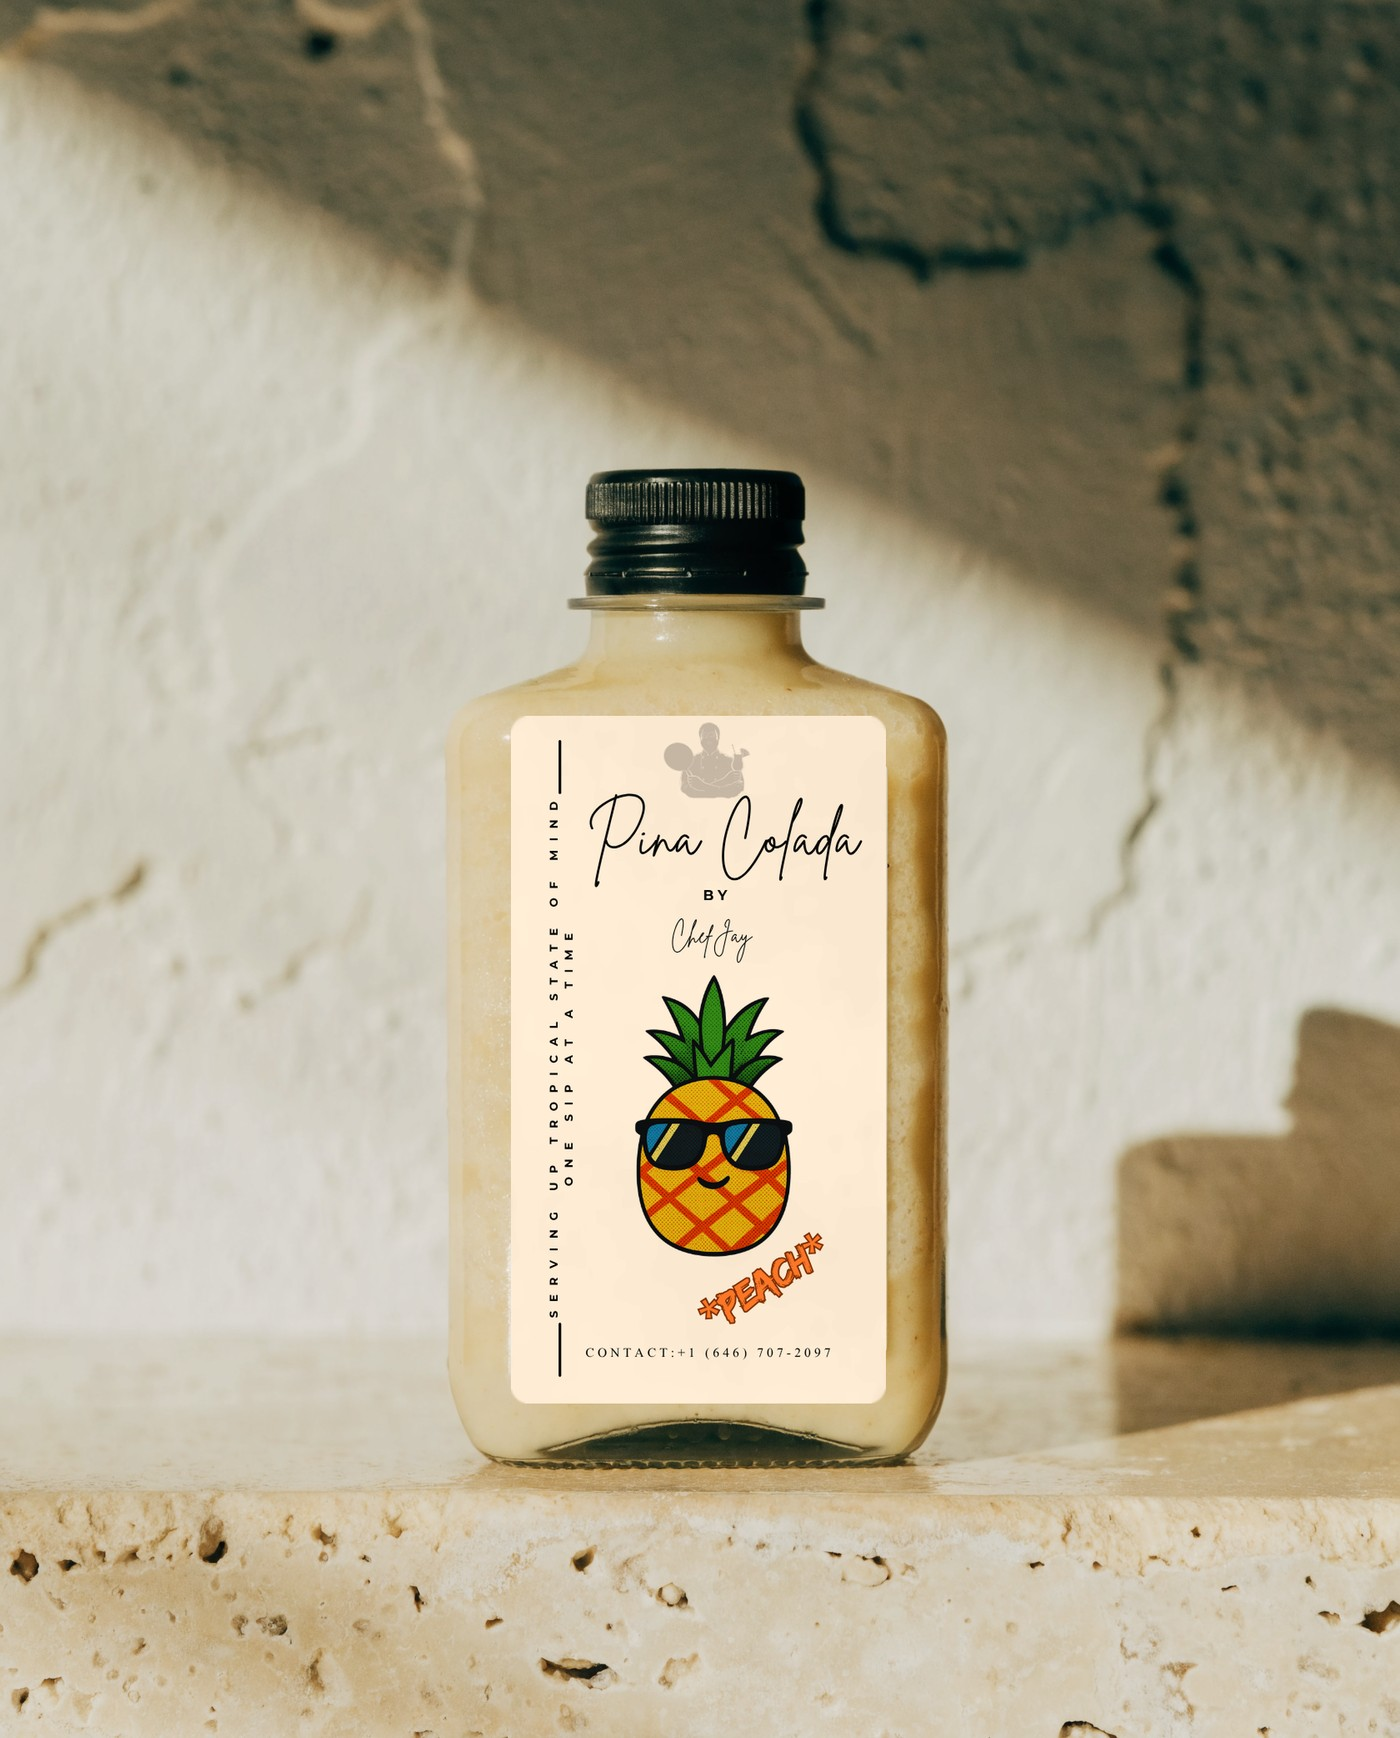
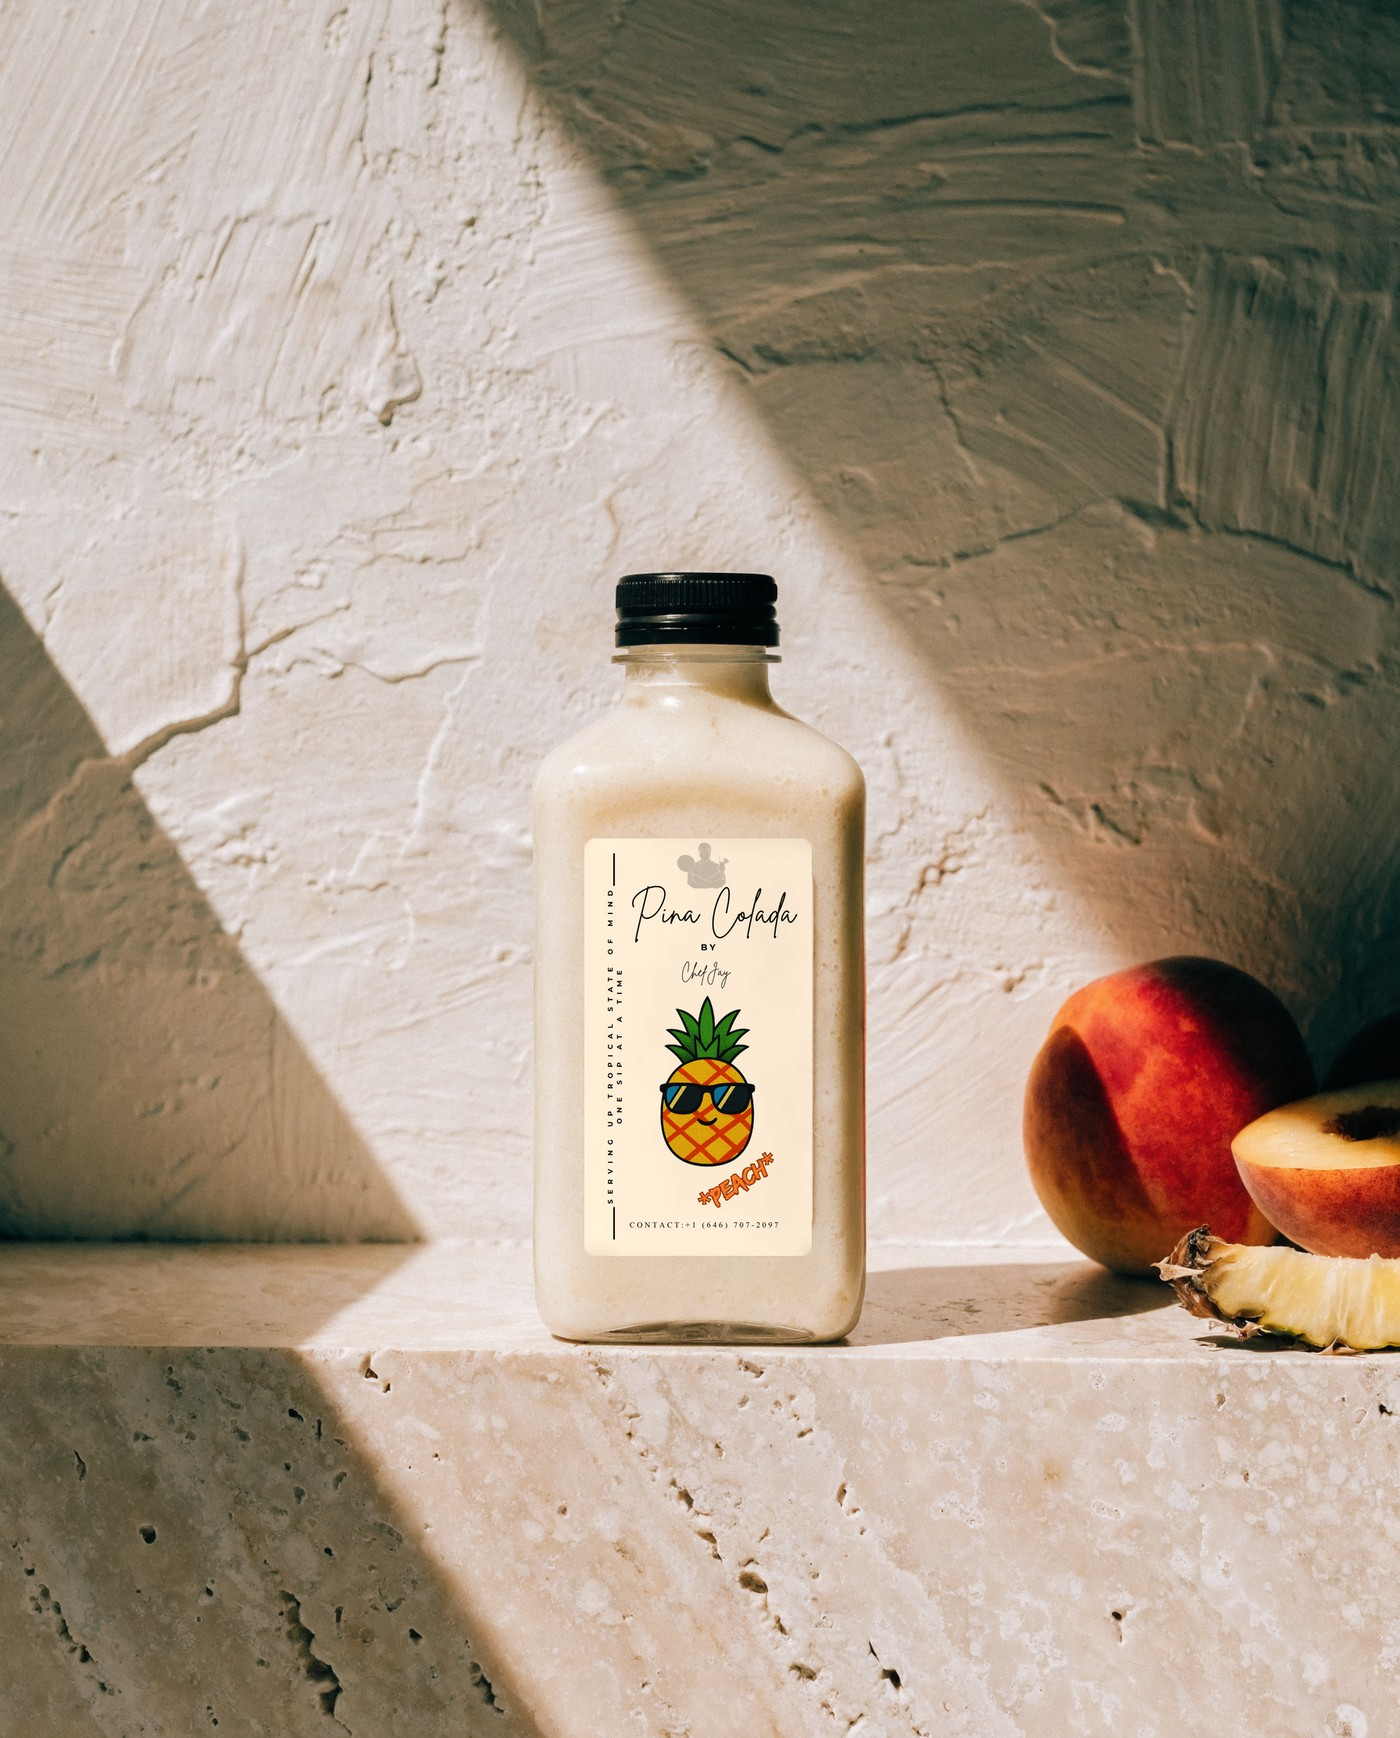
Give each flavour its own words and its own fruit
Eight cards on a grid all opened with the same eleven words and the only
distinguishing word landed last, so the lineup read as one drink photographed
eight times. Two changes.

The shared description stem is gone. Each blurb now leads with what makes that
flavour different and refers back to the base in its own words -- "the
classic", "a classic pina colada base", "the house colada", "the coconut
base". The ingredient list still carries the factual record.

Each bottle is rephotographed with its own fruit in frame. Contents are tinted
only for mango, strawberry and raspberry; the rest take no colour from the
fruit, so they stay pale cream and are told apart by what sits beside them.

Tigernut is a known stand-in. The previous shot staged it with dates and a
cinnamon stick -- neither is in the drink -- so those are gone and it now shows
pineapple and coconut, which are. The tubers beside it still read as peanuts:
the image model has no real grasp of "tiger nut" and defaults to a generic nut.
Describing the thing rather than naming it does work (a shrivelled ridged tuber
with a pale rootlet scar), but landing that and the right scale in one frame
needs another render. Left for the next pass.

diff --git a/src/lib/catalog.ts b/src/lib/catalog.ts
@@ -29,10 +29,15 @@ export type Product = {
 };
 
 /**
- * One shared description, with the flavour added on the end — every drink is
- * the same build, so the copy says so.
+ * Descriptions are written per flavour, not assembled from a shared stem.
+ *
+ * They used to be: one constant plus the flavour appended. That kept the copy
+ * honest against the recipe, but it meant all eight opened with the same
+ * eleven words and the only distinguishing word landed last — on a grid, eight
+ * cards that read as the same drink. So each one now leads with what makes it
+ * different, and refers back to the base in its own words. The ingredient list
+ * below still carries the factual record.
  */
-const BASE = "Ripe pineapple whipped through thick coconut cream, with a squeeze of lime";
 const BASE_INGREDIENTS = ["Pineapple", "Coconut cream", "Lime", "Cane sugar"];
 
 /**
@@ -50,7 +55,7 @@ export const products: Product[] = [
     slug: "classic-pina-colada",
     name: "Classic Piña Colada",
     category: "drink",
-    blurb: `${BASE}.`,
+    blurb: "Pineapple, coconut cream and a squeeze of lime. The base everything else is built on.",
     image: "/images/classic-pina-colada.jpg",
     ingredients: BASE_INGREDIENTS,
     sizes: size(499),
@@ -60,7 +65,7 @@ export const products: Product[] = [
     slug: "classic-less-sugar-pina-colada",
     name: "Classic Piña Colada (Less Sugar)",
     category: "drink",
-    blurb: `${BASE}, made with less sugar.`,
+    blurb: "The same Classic, with the sugar pulled right back.",
     image: "/images/classic-less-sugar-pina-colada.jpg",
     ingredients: BASE_INGREDIENTS,
     sizes: size(499),
@@ -70,7 +75,7 @@ export const products: Product[] = [
     slug: "mango-pina-colada",
     name: "Mango Piña Colada",
     category: "drink",
-    blurb: `${BASE}, and sweet ripe mango.`,
+    blurb: "Sun-ripe mango folded through the classic.",
     image: "/images/mango-pina-colada.jpg",
     ingredients: [...BASE_INGREDIENTS, "Mango"],
     sizes: size(599),
@@ -80,7 +85,7 @@ export const products: Product[] = [
     slug: "tigernut-pina-colada",
     name: "Tigernut Piña Colada",
     category: "drink",
-    blurb: `${BASE}, and creamy tiger nut.`,
+    blurb: "Earthy tiger nut over a classic piña colada base.",
     image: "/images/tigernut-pina-colada.jpg",
     ingredients: [...BASE_INGREDIENTS, "Tiger nut"],
     sizes: size(699),
@@ -90,7 +95,7 @@ export const products: Product[] = [
     slug: "peach-pina-colada",
     name: "Peach Piña Colada",
     category: "drink",
-    blurb: `${BASE}, and soft ripe peach.`,
+    blurb: "Soft peach, barely sweet, on pineapple and coconut cream.",
     image: "/images/peach-pina-colada.jpg",
     ingredients: [...BASE_INGREDIENTS, "Peach"],
     sizes: size(699),
@@ -100,7 +105,7 @@ export const products: Product[] = [
     slug: "passion-fruit-pina-colada",
     name: "Passion Fruit Piña Colada",
     category: "drink",
-    blurb: `${BASE}, and sharp passion fruit.`,
+    blurb: "Sharp passion fruit cutting through the house colada.",
     image: "/images/passion-fruit-pina-colada.jpg",
     ingredients: [...BASE_INGREDIENTS, "Passion fruit"],
     sizes: size(599),
@@ -110,7 +115,7 @@ export const products: Product[] = [
     slug: "strawberry-pina-colada",
     name: "Strawberry Piña Colada",
     category: "drink",
-    blurb: `${BASE}, and ripe strawberry.`,
+    blurb: "Ripe strawberry blended into the coconut base.",
     image: "/images/strawberry-pina-colada.jpg",
     ingredients: [...BASE_INGREDIENTS, "Strawberry"],
     sizes: size(599),
@@ -120,7 +125,7 @@ export const products: Product[] = [
     slug: "raspberry-pina-colada",
     name: "Raspberry Piña Colada",
     category: "drink",
-    blurb: `${BASE}, and tart raspberry.`,
+    blurb: "Tart raspberry against sweet pineapple and coconut.",
     image: "/images/raspberry-pina-colada.jpg",
     ingredients: [...BASE_INGREDIENTS, "Raspberry"],
     sizes: size(599),
